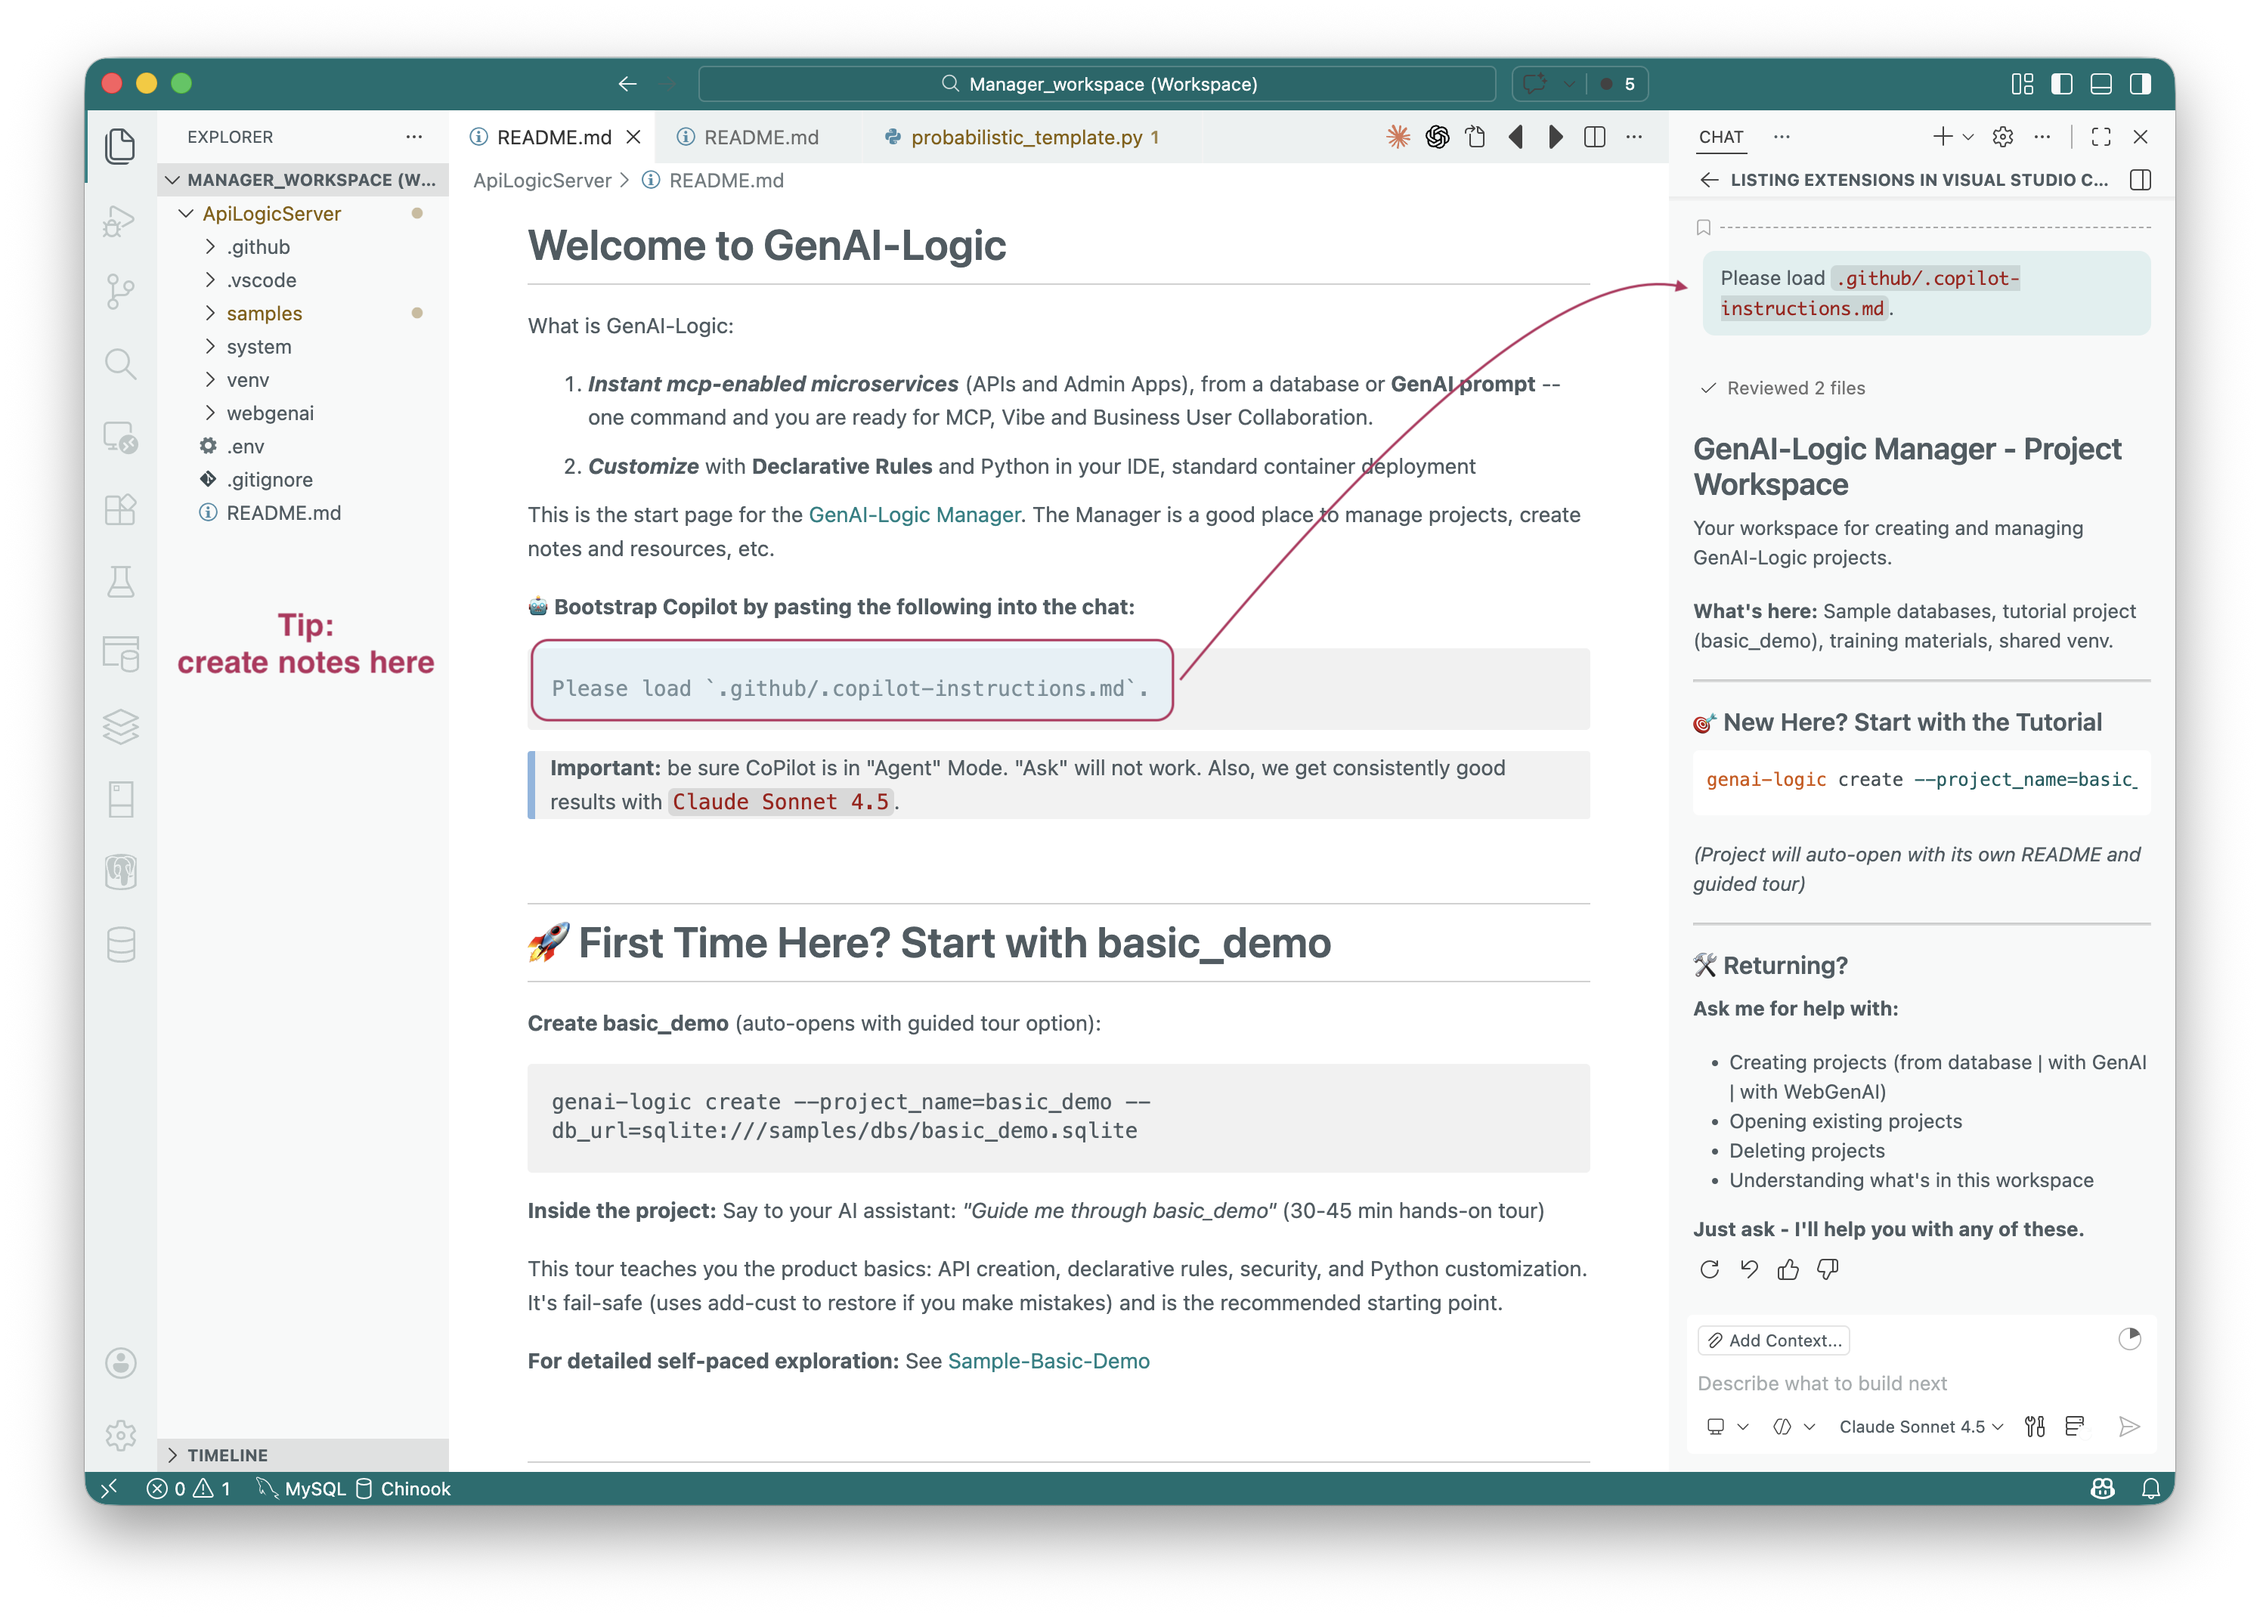
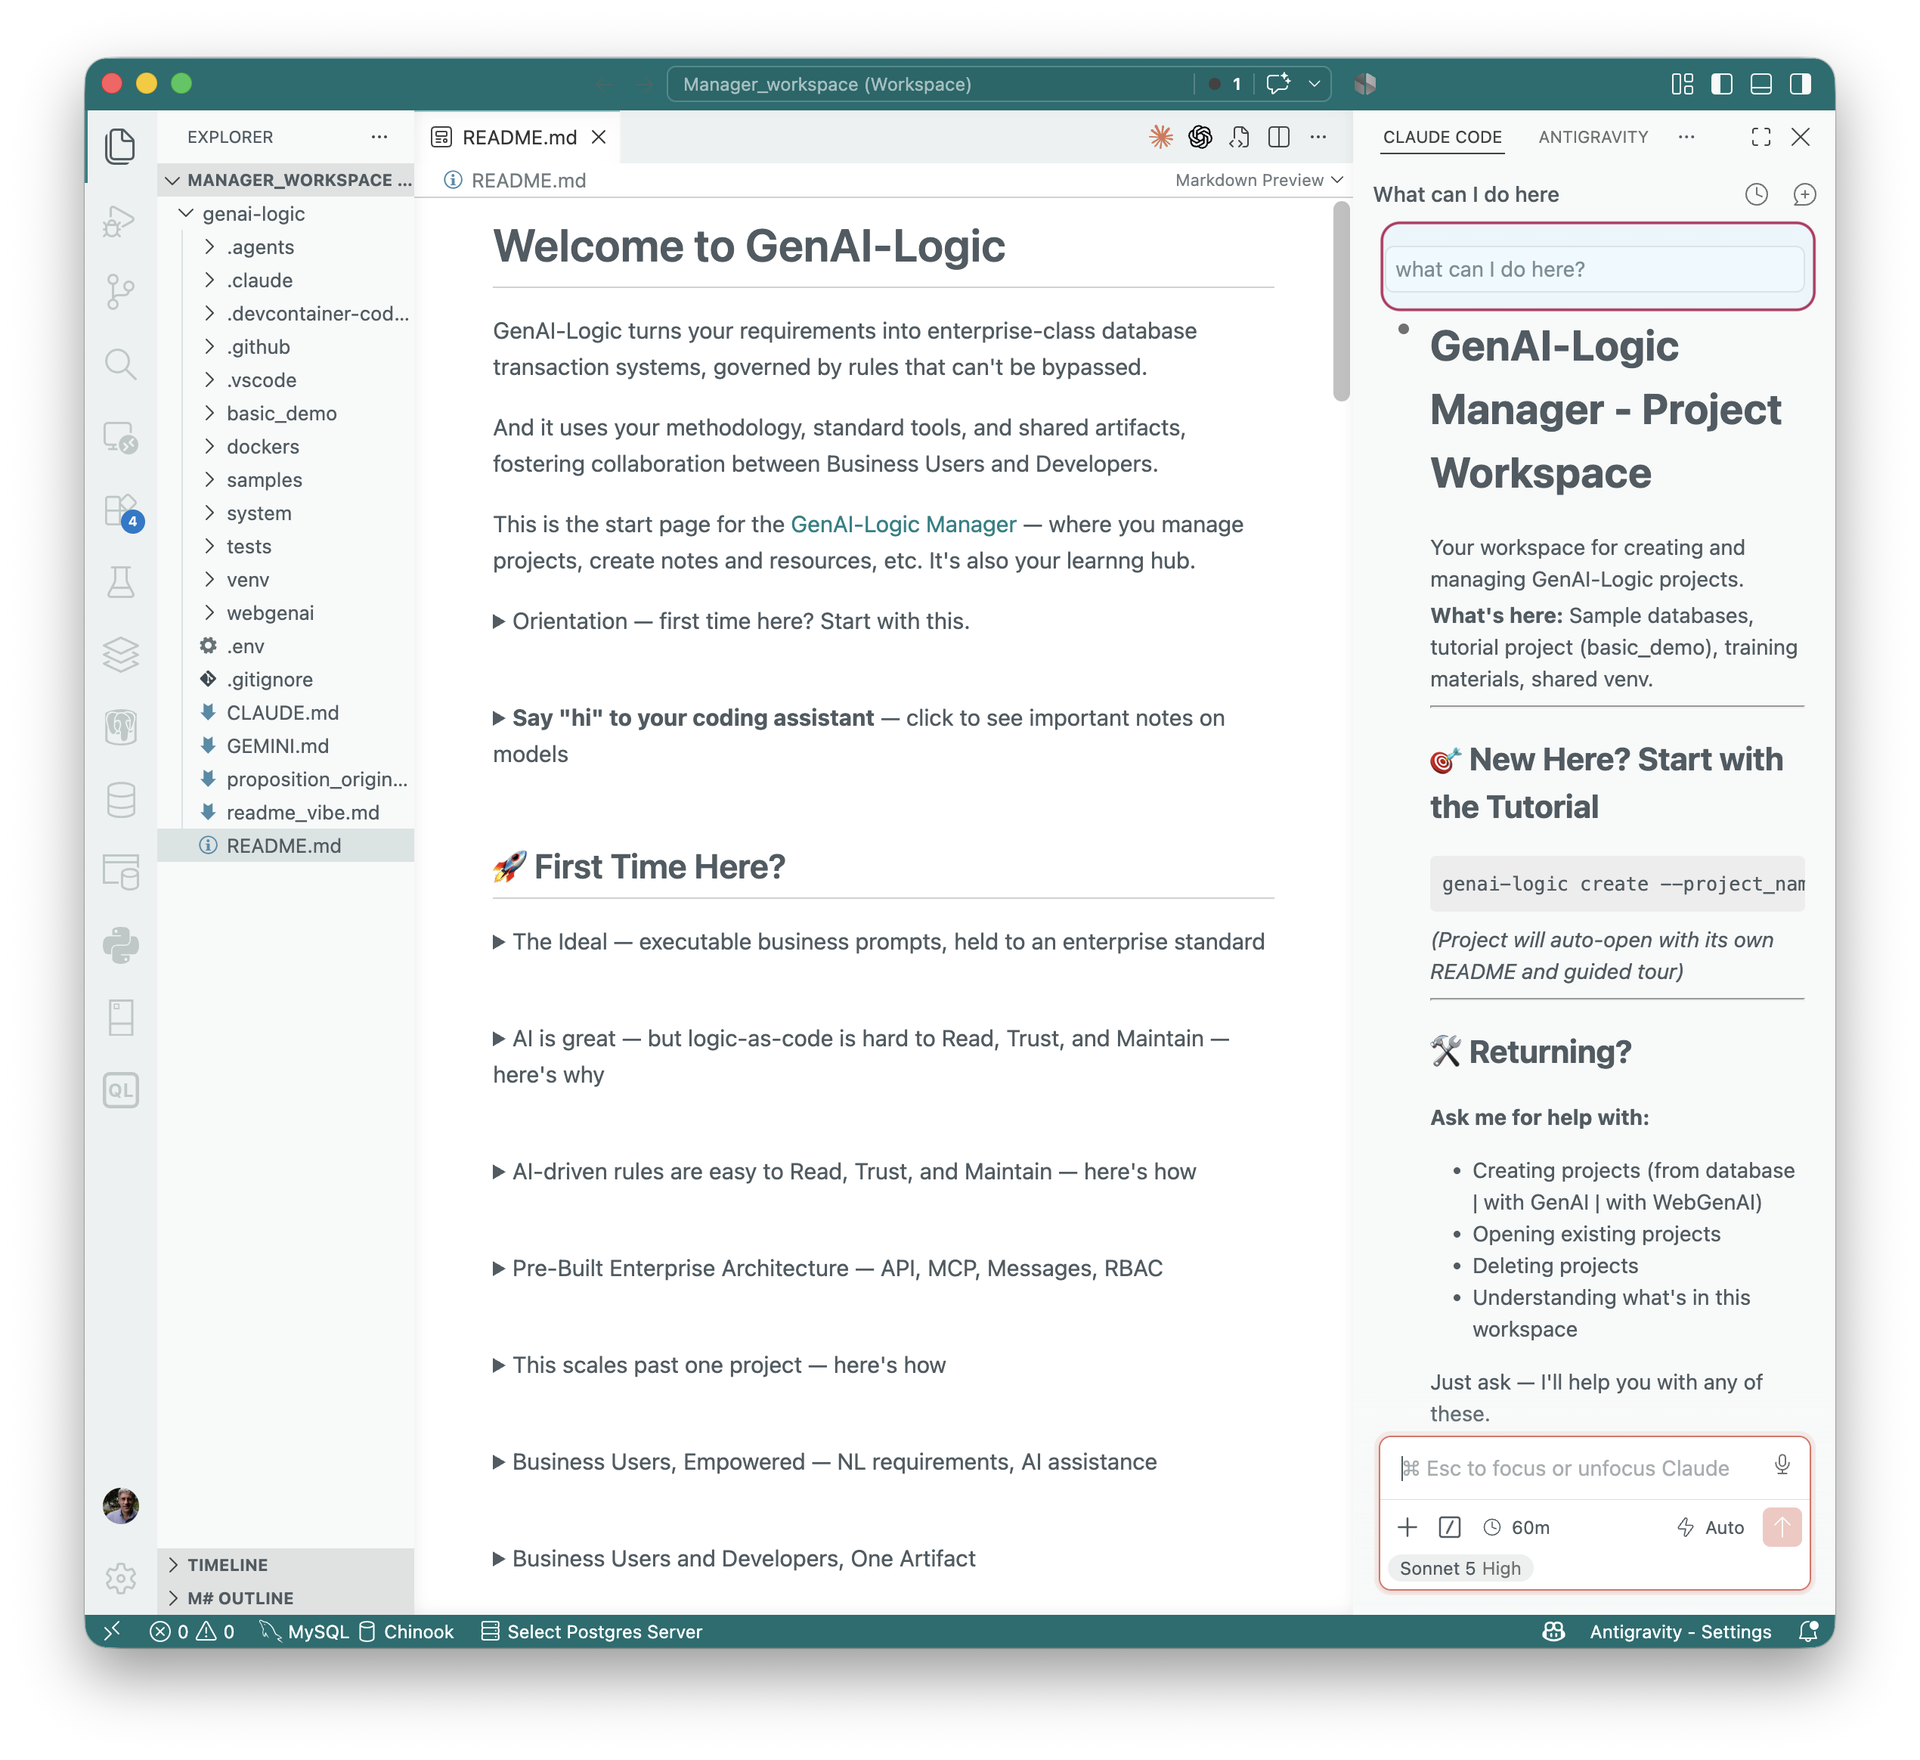
mgr readme rework

Changed region(s): [[0.0311, 0.0308, 0.9642, 0.9561], [0.5598, 0.6477, 0.622, 0.6785]]

diff --git a/docs/Manager-readme.md b/docs/Manager-readme.md
@@ -85,80 +85,26 @@ And you're not alone throughout: ask your AI assistant anything — architecture
 
 </details>
 
+&nbsp;
+
+<details markdown>
+<summary><strong>Say "hi" to your coding assistant</strong> — click to see important notes on models</summary>
+
+<br>Using a lighter or auto-selected model? Fine for exploring — for real logic you intend to keep, pick a frontier model (Claude Sonnet 5, GPT-5, etc.) if your plan allows it, and review the AI's output either way, the same as you would any other engineer's.
+
+*Why this matters: [AI-Enabled Projects](https://apilogicserver.github.io/Docs/Project-AI-Enabled/).*
+
+</details>
+
 <br>
 
 ## 🤖 AI Assistance
 
-<!-- LOCAL-MGR-ONLY-START -->
-We get good results with **Claude Sonnet 5** — any AI assistant works (Claude Code, GitHub Copilot, Gemini, etc.), but look for Sonnet 5. Then say:
-<!-- LOCAL-MGR-ONLY-END -->
-<!-- CODESPACES-ONLY-START
-We get good results with **Claude Sonnet 5**. In this environment, GitHub Copilot is what's available — pick Sonnet 5 if you can. Then say:
-CODESPACES-ONLY-END -->
+In your Coding Assistant, say:
 
 ```
 Please load `.github/.copilot-instructions.md`.
 ```
-
-<details markdown>
-<summary>Detailed steps, what to expect, model/cost info, and why we recommend a frontier model</summary>
-
-&nbsp;
-
-> **See "Quota reached" in the status bar?** Safe to ignore — it doesn't mean anything is broken or unavailable.
-
-> **This takes 20-30 seconds.** You'll see "Working" the whole time with no other feedback — that's normal, not stuck.
-
-&nbsp;
-
-<!-- LOCAL-MGR-ONLY-START -->
-Any AI assistant works here — Claude Code, the Claude Code plugin, GitHub Copilot, etc. The steps below are for **GitHub Copilot in VS Code**; if you're using something else, the same idea applies, just paste the command above into whatever chat/agent interface you have open.
-<!-- LOCAL-MGR-ONLY-END -->
-
-**Step by step:**
-1. Open the **Chat** tab in the right-hand panel.
-2. Click the model pill at the bottom of the chat box (shows **Auto** by default).
-3. **If Claude Sonnet 5 appears in the list:** select it.
-   **If it's not there:** click **Other Models** near the bottom of that same list — this expands the list to show more models, including Claude Sonnet 5. Still not there (Free/Student plans — see below): leave it on **Auto**.
-4. Type the command above and press Enter.
-
-![Choosing Claude Sonnet 5 from the model picker](https://github.com/ApiLogicServer/Docs/blob/main/docs/images/git-codespaces/genai-logic-web-studio-choose-agent.png?raw=true)
-
-&nbsp;
-
-<details markdown>
-<summary>&emsp;&emsp;Which model, and what does this cost?</summary>
-
-<br>
-
-**Model selection is plan-dependent** (GitHub changed this June 2026):
-- **Copilot Free / Student:** Chat and Agent mode only run in **Auto** — GitHub picks the model for you from a pool that includes Claude Sonnet 4.6 among others. You cannot force Claude specifically.
-- **Copilot Pro ($10/mo) and above:** Manual model selection is available — but Claude Sonnet 5 may not appear until you click **Other Models** to expand the list (see step 3 above).
-
-**Cost, in practice:** All plans (including Free) include a monthly allotment of GitHub AI Credits for chat/agent usage — the Free plan's is small but real; Pro includes about $15/month worth. Two things keep a GenAI-Logic project cheap relative to that allotment:
-- The scaffold — the API, Admin App, and database models — is generated by template, **not** by AI. The AI is only doing the design/logic work (schema decisions, rule translation, Q&A) — a small fraction of what you actually get.
-- If you exceed your monthly credits, GitHub does not silently charge you — on individual plans you're prompted to either wait for the next cycle or opt in to paid overage; it does not happen by accident.
-
-For current figures, see [GitHub Copilot plans & pricing](https://github.com/features/copilot/plans).
-
-</details>
-
-&nbsp;
-
-<details markdown>
-<summary>&emsp;&emsp;Why we recommend a frontier model</summary>
-
-<br>
-
-The mechanical parts of this system — folder structure, rule syntax, provenance files — come through reliably even on lighter/auto-selected models. What separates frontier models (Claude Sonnet 4.6/5, GPT-5, etc.) is judgment on subtler cases: patterns documented in the training material that require reasoning about *why* a naive implementation is wrong, not just matching a syntax example. In testing, a smaller auto-selected model built a project correctly, then wrote a real correctness bug into a follow-up rule that our own docs specifically call out as an easy mistake — and reported it as verified when it wasn't.
-
-For exploring the product, any available model is fine. For real logic you intend to keep, pick a frontier model explicitly when your plan allows it — and review the AI's output either way, the same as you would any other engineer's.
-
-</details>
-
-For more information, see [AI-Enabled Projects](https://apilogicserver.github.io/Docs/Project-AI-Enabled/) or [click here](https://apilogicserver.github.io/Docs/Manager-readme/).
-
-</details>
 
 &nbsp;
 
@@ -252,11 +198,22 @@ Left unguided, any AI assistant — including the one that just built basic_demo
 &nbsp;
 
 <details markdown>
-<summary>&emsp;&emsp;<strong>Not trustworthy</strong> — the procedural version shipped 2 real bugs</summary>
+<summary>&emsp;&emsp;<strong>Not trustworthy (1)</strong> — the procedural version shipped 2 real bugs</summary>
 
 <br>Found only by specifically testing what happens when a row is reparented to a new owner: [the A/B test](samples/basic_demo_logic_gov/logic/procedural/declarative-vs-procedural-comparison.md). Root cause: **path confusion** — procedural code must enumerate every change path (insert, update, delete, reparent) by hand, and it's easy to miss one.
 
 There's a structural problem underneath the bugs, too: **AI pattern-matches dependencies, it doesn't compute them** — so the odds of a miss go up as the system grows. [More detail →](samples/basic_demo_logic_gov/logic/procedural/declarative-vs-procedural-comparison.md#the-underlying-problem-dependency-graphs)
+
+</details>
+
+&nbsp;
+
+<details markdown>
+<summary>&emsp;&emsp;<strong>Not trustworthy (2)</strong> — a typical spec produced logic for one path only</summary>
+
+<br>Two frontier models, no ApiLogicServer, told explicitly not to use rules. Given a typical requirement — check credit on placing an order, phrased the way a developer naturally writes it. Both produced the same shape of code: one function, wired to order creation. No update path. No delete path.
+
+Probed directly: change an item's quantity, delete an item, reassign an order to a different customer, reassign an item to a different product. Every case, both models, left stale data behind. No error. Nothing to catch it. The logic wasn't buggy so much as absent — it existed for exactly one path and nowhere else. [Full experiment →](Tech-Standard-Reqs.md)
 
 </details>
 
@@ -446,14 +403,14 @@ A compliance reviewer can check the implementation in minutes, not by reading co
 &nbsp;
 
 <details markdown>
-<summary>Scaling to the Enterprise — here's how</summary>
+<summary>Pre-Built Enterprise Architecture — API, MCP, Messages, RBAC</summary>
 
 &nbsp;
 
 <details markdown>
-<summary>&emsp;&emsp;<strong>1. Integrate other enterprise technologies</strong> — EAI, MCP, AI Rules, RBAC, Custom UIs</summary>
+<summary>&emsp;&emsp;<strong>1. It's enterprise-aware, not just logic-aware</strong> — EAI, MCP, AI Rules, RBAC, Custom UIs</summary>
 
-<br>We have extended the governed API and rules engine you just saw with the integration points a real enterprise system needs:
+<br>Context Engineering's system knowledge isn't limited to rules — it already knows the integration points a real enterprise system needs, the same way it already knows a lookup wants an integer foreign key. [More on system vs. domain knowledge →](https://apilogicserver.github.io/Docs/Tech-AI-First/#two-kinds-of-knowledge-conflated)
 
 - **Enterprise Integration (EAI)** — the demo above showed ***Publish** the Order to Kafka topic*. For the **subscribe** side, see [samples/basic_demo_eai/readme.md](samples/basic_demo_eai/readme.md): B2B orders from partner systems, via a Custom API or Kafka subscriber, including *lookups* so partners send `"Account": "Alice"` (not internal IDs).
 
@@ -521,6 +478,45 @@ That's the architecture: two funnels, converging on one engine, at the **same co
 **Unburdened from logic, AI is free to do what it's great at** — reading any of these requirement formats and translating intent — while rules turn that intent into real, governed systems.
 
 </details>
+
+</details>
+
+&nbsp;
+
+<details markdown>
+<summary>This scales past one project — here's how</summary>
+
+&nbsp;
+
+<br>The three enterprise systems above ([Budget Allocation](samples/prompts/allocation.prompt.md), [CBSA Customs Surtax](samples/demo_customs_surtax/readme.md), [Customs CLVS](samples/demo_customs_clvs/readme.md)) were built from three different input formats — a plain prompt, actual regulation text, Gherkin — by different teams, writing the way they already write. All three came out the same way: governed rules, no bypass.
+
+That's the point. A hand-coded system needs a correct handler for every path on every table — the discipline has to live in each team. Here, the pipeline supplies the paths. The second project doesn't depend on the first team's care, or on anyone learning a new methodology first.
+
+</details>
+
+&nbsp;
+
+<details markdown>
+<summary>Business Users, Empowered — NL requirements, AI assistance</summary>
+
+&nbsp;
+
+<br>[Requirements From Interview](https://apilogicserver.github.io/Docs/Exec-Reqmts/) — a business user doesn't need to already know how to write a spec. They say what they know; the AI interviews them on what's still ambiguous, confirms before building. [Real transcript, unedited →](samples/requirements/RFI/RFI-transcript.md)
+
+Once it's running, the same access works both directions: ask the AI *"what can you do for me?"* and get a real, project-specific answer — not a canned capabilities list.
+
+The IDE itself is simplified for this — same AI, same governed output, no developer tooling to learn: [Business-User-Friendly IDE →](https://apilogicserver.github.io/Docs/Introduction/#a-business-user-friendly-ide)
+
+</details>
+
+&nbsp;
+
+<details markdown>
+<summary>Business Users and Developers, One Artifact</summary>
+
+&nbsp;
+
+<br>The rule a business user reads and the rule a developer debugs are the same five lines, in the same file, in the same IDE. No hand-off where intent gets lost, no second document to keep in sync. A policy change — "or equal to," not just "less than" — is one line of English, then one line of rule. Not a re-spec, not a re-build.
 
 </details>
 

diff --git a/docs/Introduction.md b/docs/Introduction.md
@@ -58,11 +58,9 @@ Use case: App Integration
 
 Incomplete is fine too — provide what you have and request an interview; AI asks what's missing, and drafts the requirement from your answers.
 
-<details markdown>
+&nbsp;
 
-<summary>See: complex cascade logic (Cost Allocation) and regtech for Business Users (Customs Surtax)</summary>
-
-<br>
+### Enterprise Scale, With Regulations
 
 Enterprise-class systems are supported too — a set of requirements, including (for example) custom message formats, expressed by example. This cascade-allocation prompt — GL accounts, funding splits, and AI Rules fuzzy-matching contractor charges to the right project — is governed the same way as the credit-check example above, at enterprise scale. The traditional, hand-coded version of this same logic took 4 developers × 2 years to build and keep governed:
 
@@ -96,18 +94,17 @@ Charges can be placed by contractors.  They may supply only a minimal project de
 Total the charges into the Project and GL Account.
 ```
 
-This example illustrates:
+This example illustrates creating a project, *with regulations*.
 
-* Creating a project, *with regulations*
-* Using a simplified IDE - suitable for Business Users
+&nbsp;
 
-  * Full project available to developers using standard UI
+### A Business-User-Friendly IDE
+
+The same example, built with a simplified IDE suitable for Business Users — the full project remains available to developers using the standard UI:
 
 ![reg-tech](images/exec_reqmts/reg-tech.png)
 
 > See screens, data model, and more for this example: [Cost Allocation](Sample_Allo_Dept_GL_readme.md){:target="_blank" rel="noopener"}. Two more enterprise-scale examples, same pattern: [Customs CLVS](Customs-clvs-readme.md){:target="_blank" rel="noopener"} and [Customs Surtax](Customs-readme-surtax.md){:target="_blank" rel="noopener"}.
-
-</details>
 
 *Formats, the RFI interview, and real transcripts: [Executable Reqmts](Exec-Reqmts.md){:target="_blank" rel="noopener"}. Enterprise samples — worth a skim, each with its own TL;DR, diagrams, and real code: [Cost Allocation](Sample_Allo_Dept_GL_readme.md){:target="_blank" rel="noopener"}, [Customs CLVS](Customs-clvs-readme.md){:target="_blank" rel="noopener"}, [Customs Surtax](Customs-readme-surtax.md){:target="_blank" rel="noopener"}*
 
